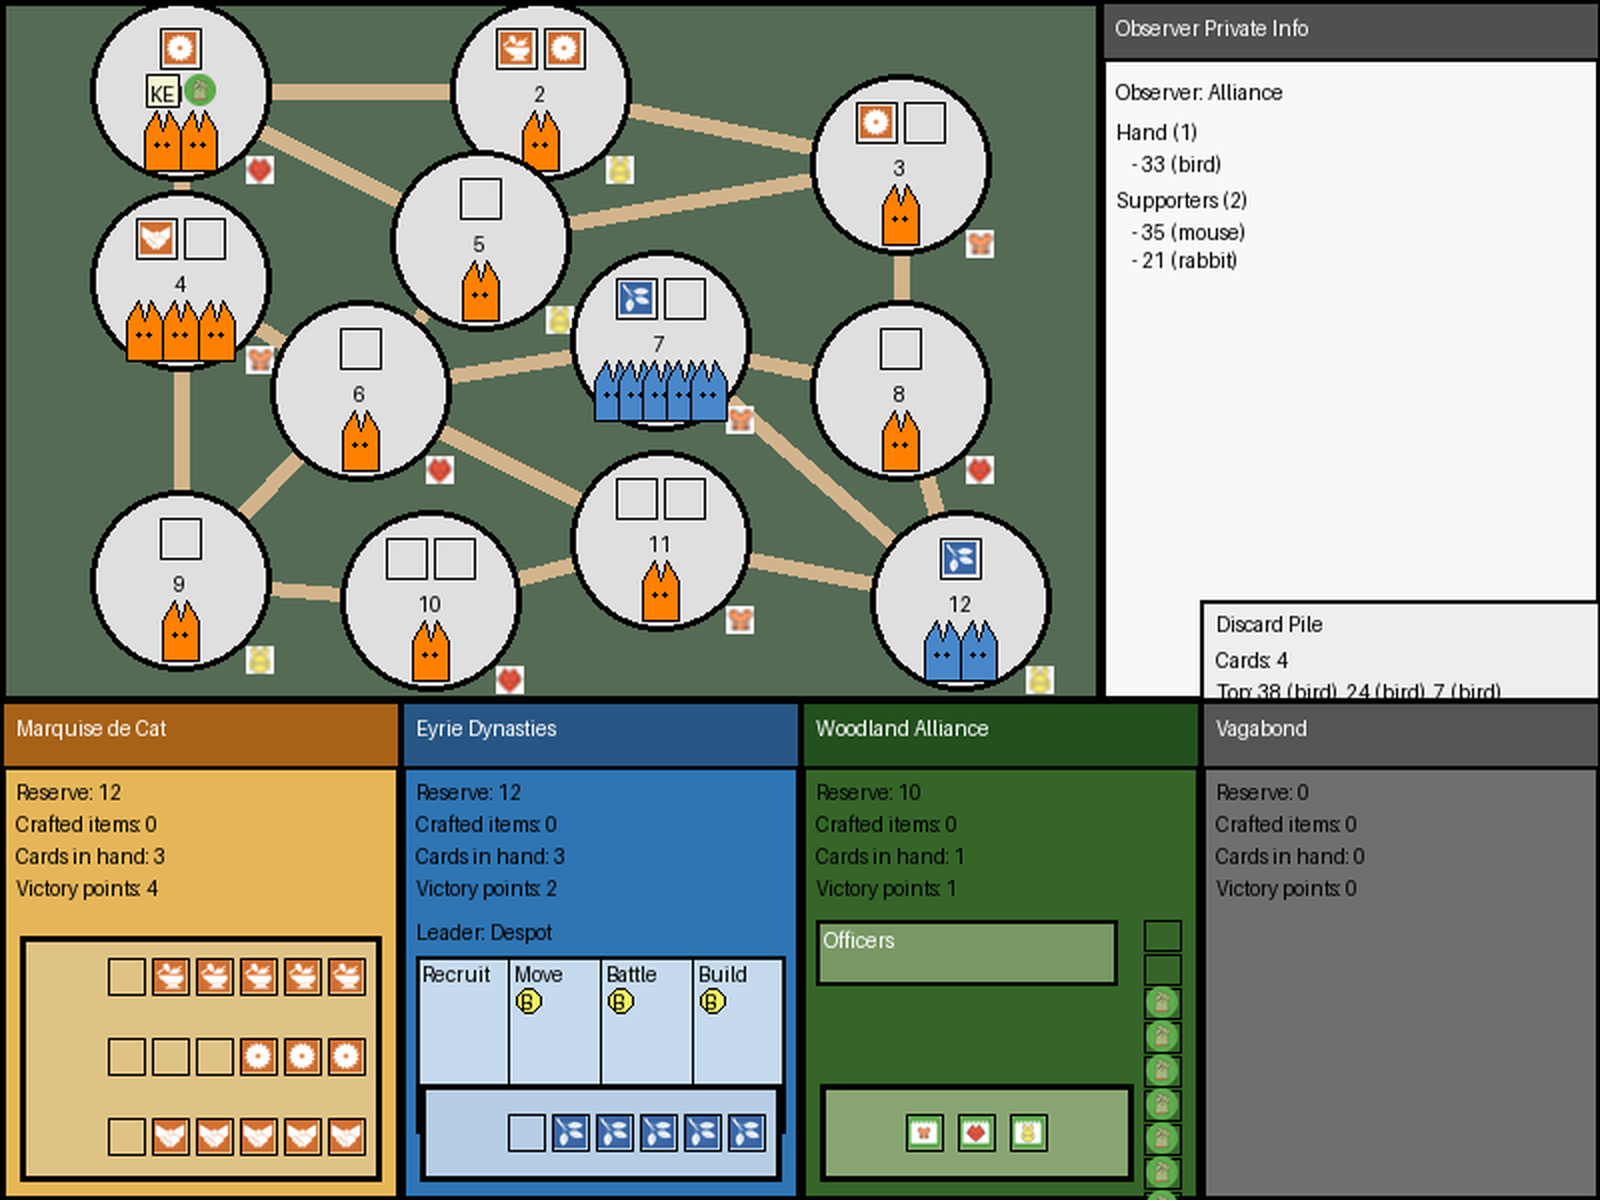
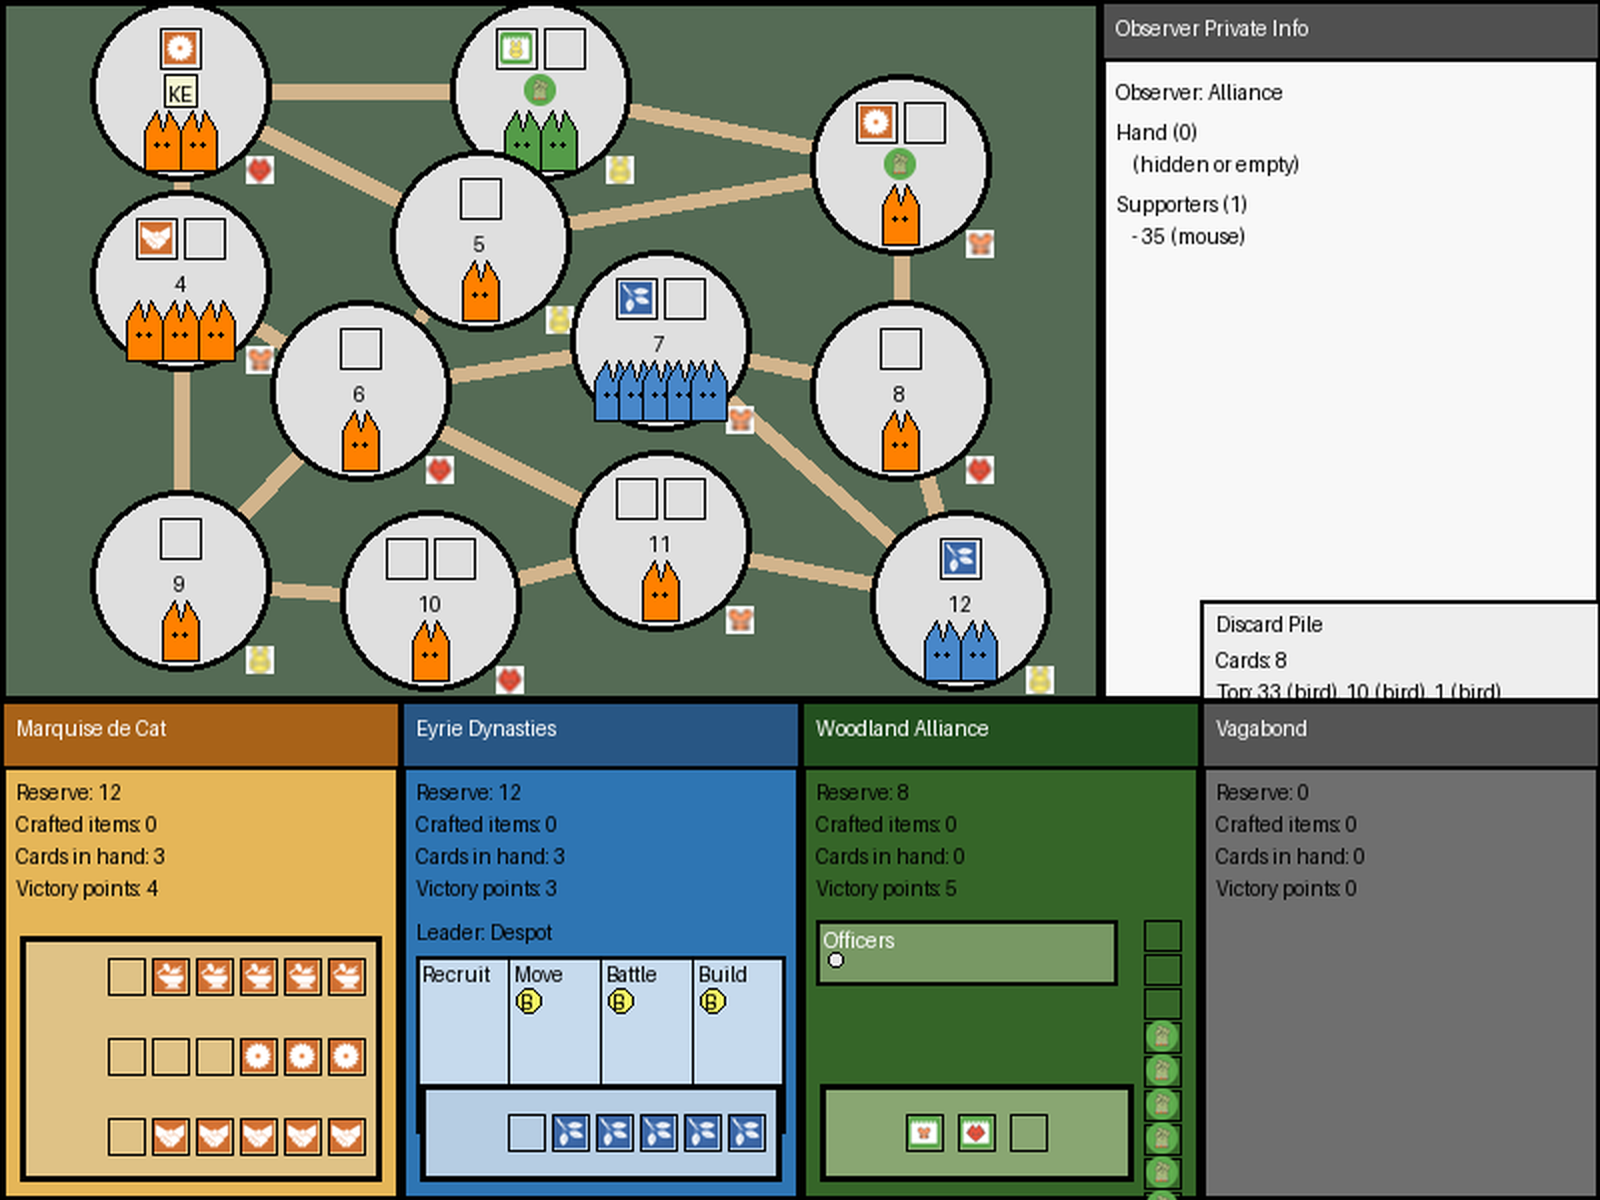
Game testing

diff --git a/game_tester.py b/game_tester.py
@@ -11,14 +11,17 @@ marquise_observation = engine.get_observation(Faction.MARQUISE)
 render.render_board(marquise_observation, 'game_state.png')
 print(engine.get_valid_actions())
 
-actions = [0,1,1,1,0,0,0,0,0,0,0,0,0,0,0,1,1,0,0,0,0,1,1,-1,0,0,0,2,0,0,5,0,0,0,0,0]
+actions = [0,1,1,1,0,0,0,0,0,0,0,0,0,0,0,1,1,0,0,0,0,1,1,-1,0,0,0,2,0,0,5,0,0,0,0,0,1,1,0,1,0,2]
+r = True
 
 for i in range(len(actions)):
     valid_actions = engine.get_valid_actions()
     engine.apply_action(valid_actions[actions[i]])
-    obs = engine.get_observation(Faction.ALLIANCE)
-    render.render_board(obs, 'game_state.png')
+    if r:
+        obs = engine.get_observation(Faction.ALLIANCE)
+        render.render_board(obs, 'game_state.png')
     print("Current Faction: ", engine.get_state().turn.current_faction, "Current Phase: ", engine.get_state().turn.phase)
+    if i== 30:
+        engine._state.alliance.supporters.append(1)
+        engine._state.alliance.supporters.append(1)
     print(engine.get_valid_actions())
-
-print(engine.get_state().eyrie.roosts_in_supply)

diff --git a/README.md b/README.md
@@ -1,25 +1,8 @@
 # Root-Game-Engine
 
-## Observation + rendering example
+### TODO:
+1. Add crafting items and limits
+2. Add vagabound functionality
 
-```python
-from root_engine.engine import RootEngine
-from root_engine.enums import Faction
-from root_engine.render import TextRenderer, VisualRenderer
-
-engine = RootEngine(seed=7)
-text_renderer = TextRenderer()
-visual_renderer = VisualRenderer()
-
-# Full debug rendering (all hidden info visible)
-print(text_renderer.render(engine.get_state()))
-
-# Full-state visual rendering (debug SVG)
-visual_renderer.render_to_file(engine.get_state(), "root_full_state.svg")
-
-# Player-specific visual rendering (hidden info masked)
-marquise_observation = engine.get_observation(Faction.MARQUISE)
-visual_renderer.render_to_file(marquise_observation, "root_marquise_view.svg")
-```
-
-The engine stays fully headless and independent from rendering. Rendering modules consume only the state/observation objects passed to them.
+### FIX NOW:
+1. 
